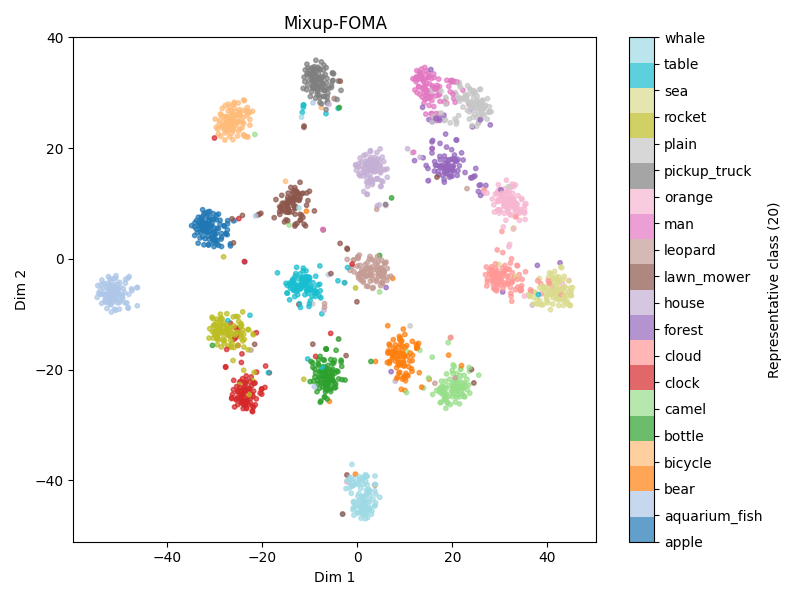
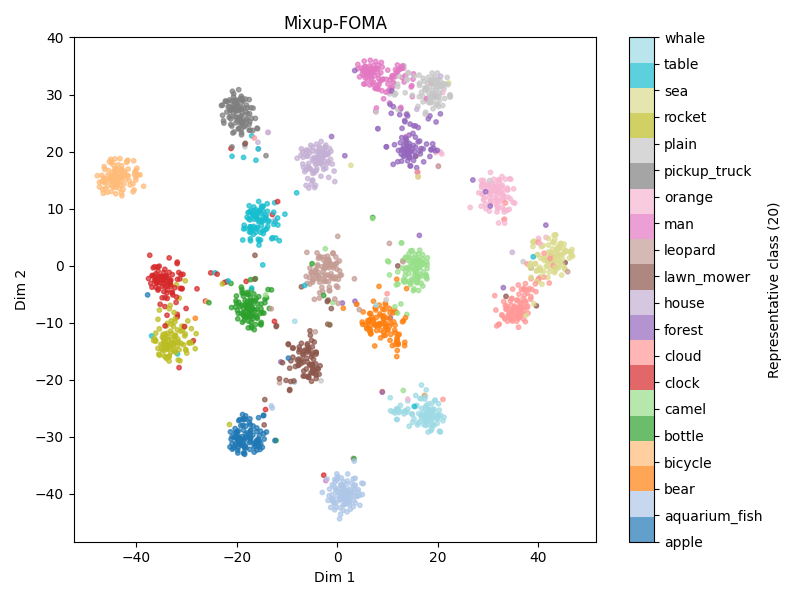
create t-SNE features

diff --git a/visualize_features.py b/visualize_features.py
@@ -1,3 +1,155 @@
+# import os
+# import torch
+# import torchvision
+# import random
+# import torchvision.transforms as transforms
+# import numpy as np
+# import matplotlib.pyplot as plt
+# import matplotlib.cm as cm
+# import argparse
+# from matplotlib.colors import ListedColormap
+# from torch.utils.data import DataLoader, Subset
+# from src.models.resnet import ResNet18
+# from sklearn.manifold import TSNE
+# from tqdm import tqdm
+# from src.models.wide_resnet import Wide_ResNet
+# from torchvision.datasets import STL10, CIFAR10, CIFAR100
+# from umap import UMAP
+
+# parser = argparse.ArgumentParser()
+# parser.add_argument("--i",          type=int, default=0)
+# parser.add_argument("--epochs",     type=int, default=250)
+# parser.add_argument("--data_type",  type=str, default="cifar100",  choices=["stl10", "cifar100", "cifar10"])
+# parser.add_argument("--model_type", type=str, default="wide_resnet_28_10", choices=["resnet18", "resnet101", "wide_resnet_28_10"])
+# parser.add_argument("--k_foma",     type=int, default=0)
+# parser.add_argument("--method",     type=str, default="tsne")
+# args = parser.parse_args() 
+
+# i          = args.i
+# epochs     = args.epochs
+# data_type  = args.data_type
+# model_type = args.model_type
+# k_foma     = args.k_foma
+# method     = args.method
+# device     = torch.device('cuda' if torch.cuda.is_available() else 'cpu')
+# os.makedirs(f"./result_features/{method}/{data_type}", exist_ok=True)
+
+# augmentations = [
+#     # "Default",
+#     # "Mixup", 
+#     # "Local-FOMA", 
+#     # "ES-Mixup",
+#     "Mixup-FOMA",
+#     # "Mixup-FOMA2",
+# ]
+
+# if data_type == "stl10":
+#     num_classes = 10
+#     batch_size  = 64
+# elif data_type == "cifar100":
+#     epochs      = 250
+#     num_classes = 100  # ← 学習済みモデルは100クラス想定のまま
+#     batch_size  = 128
+# elif data_type == "cifar10":
+#     epochs      = 250
+#     num_classes = 10
+#     batch_size  = 128
+
+# REPRESENTATIVE_20_FINE = [0, 1, 3, 8, 9, 15, 22, 23, 33, 37,
+#                           45, 46, 47, 49, 58, 59, 61, 71, 84, 95]
+# REPRESENTATIVE_20_NAMES = [
+#     "apple","aquarium_fish","bear","bicycle","bottle","camel","clock","cloud","forest","house",
+#     "lawn_mower","leopard","man","orange","pickup_truck","plain","rocket","sea","table","whale"
+# ]
+# FINE_TO_20IDX = {fine:i for i, fine in enumerate(REPRESENTATIVE_20_FINE)}
+
+# for augment in augmentations:
+#     features_list = []
+#     labels_list = []
+#     if k_foma == 0:
+#         model_save_path = f"./logs/{model_type}/{augment}/{data_type}_{epochs}_{i}.pth"
+#     else:    
+#         model_save_path = f"./logs/{model_type}/{augment}/{data_type}_{epochs}_{i}_{k_foma}.pth"
+    
+#     if model_type == "resnet18":
+#         model = ResNet18().to(device)
+#     elif model_type == "wide_resnet_28_10":
+#         model = Wide_ResNet(28, 10, 0.3, num_classes).to(device)
+    
+#     if data_type == "stl10":
+#         transform     = transforms.Compose([transforms.ToTensor(), transforms.Normalize(mean=[0.485, 0.456, 0.406], std=[0.229, 0.224, 0.225])])
+#         test_dataset  = STL10(root="./data", split="train", download=True, transform=transform)
+#     elif data_type == "cifar100":
+#         transform     = transforms.Compose([transforms.ToTensor(), transforms.Normalize(mean=[0.485, 0.456, 0.406], std=[0.229, 0.224, 0.225])])
+#         full_dataset  = CIFAR100(root="./data", train=False, transform=transform, download=True)
+
+#         indices = [idx for idx, fine in enumerate(full_dataset.targets) if fine in REPRESENTATIVE_20_FINE]
+#         test_dataset = Subset(full_dataset, indices)
+
+#     elif data_type == "cifar10":
+#         transform     = transforms.Compose([transforms.ToTensor(), transforms.Normalize(mean=[0.485, 0.456, 0.406], std=[0.229, 0.224, 0.225])])
+#         test_dataset  = CIFAR10(root="./data", train=False, transform=transform, download=True)
+
+#     test_loader  = DataLoader(dataset=test_dataset,  batch_size=batch_size, shuffle=False)
+
+#     checkpoint = torch.load(model_save_path, weights_only=True)
+#     if 'model_state_dict' in checkpoint:
+#         model.load_state_dict(checkpoint['model_state_dict'])
+#     else:
+#         model.load_state_dict(checkpoint)
+
+#     model.eval()
+#     with torch.no_grad():
+#         for images, labels in tqdm(test_loader, leave=False):
+#             images = images.to(device)
+#             features = model.extract_features(images)
+#             features_list.append(features.cpu())
+#             labels_list.append(labels)
+#     X = torch.cat(features_list, dim=0).numpy()
+#     y = torch.cat(labels_list, dim=0).numpy()
+
+#     if data_type == "cifar100":
+#         y = np.vectorize(FINE_TO_20IDX.get)(y)
+
+#     if method == "tsne":
+#         reducer = TSNE(n_components=2, random_state=42, perplexity=30)
+#     elif method == "umap":
+#         reducer = UMAP(
+#             n_components=2,
+#             n_neighbors=15,
+#             min_dist=0.1,
+#             metric='euclidean',
+#             random_state=42
+#         )
+#     X_2d = reducer.fit_transform(X)
+
+#     plt.figure(figsize=(8, 6))
+#     if augment == "Default":
+#         augment = "Baseline"
+#     if data_type == "cifar100":
+#         cmap = plt.get_cmap('tab20', 20)
+#         scatter = plt.scatter(X_2d[:, 0], X_2d[:, 1], c=y, cmap=cmap, s=10, alpha=0.7)
+#         cbar = plt.colorbar(scatter, ticks=np.arange(20))
+#         cbar.set_label("Representative class (20)")
+#         try:
+#             cbar.ax.set_yticklabels(REPRESENTATIVE_20_NAMES)
+#         except Exception:
+#             pass
+#         title = f"{augment}"
+#         save_suffix = "20classes"
+#     else:
+#         scatter = plt.scatter(X_2d[:, 0], X_2d[:, 1], c=y, cmap='tab10', s=6, alpha=1)
+#         plt.colorbar(scatter, label="Class label")
+#         title = f"t-SNE of ResNet Feature Representations ({augment})"
+#         save_suffix = ""
+
+#     plt.title(title)
+#     plt.xlabel("Dim 1")
+#     plt.ylabel("Dim 2")
+#     plt.tight_layout()
+#     plt.savefig(f"./result_features/{method}/{data_type}/_{model_type}_{augment}_{k_foma}_{save_suffix}.png")
+
+
 import os
 import torch
 import torchvision
@@ -35,78 +187,95 @@ device     = torch.device('cuda' if torch.cuda.is_available() else 'cpu')
 os.makedirs(f"./result_features/{method}/{data_type}", exist_ok=True)
 
 augmentations = [
-    # "FOMA-Mixup",
-    # "Default",
-    # "Mixup", 
+    "Default",
+    "Mixup", 
     # "Local-FOMA", 
-    # "Mixup-FOMA",
+    "ES-Mixup",
+    "Mixup-FOMA",
     "Mixup-FOMA2",
-    # "ES-Mixup",
 ]
 
+# --- 1. データセットの準備 (ループの外で一度だけ行う) ---
 if data_type == "stl10":
     num_classes = 10
     batch_size  = 64
+    transform   = transforms.Compose([transforms.ToTensor(), transforms.Normalize(mean=[0.485, 0.456, 0.406], std=[0.229, 0.224, 0.225])])
+    test_dataset = STL10(root="./data", split="train", download=True, transform=transform)
+
 elif data_type == "cifar100":
     epochs      = 250
-    num_classes = 100  # ← 学習済みモデルは100クラス想定のまま
+    num_classes = 100
     batch_size  = 128
+    transform   = transforms.Compose([transforms.ToTensor(), transforms.Normalize(mean=[0.485, 0.456, 0.406], std=[0.229, 0.224, 0.225])])
+    full_dataset = CIFAR100(root="./data", train=False, transform=transform, download=True)
+    
+    REPRESENTATIVE_20_FINE = [0, 1, 3, 8, 9, 15, 22, 23, 33, 37,
+                              45, 46, 47, 49, 58, 59, 61, 71, 84, 95]
+    REPRESENTATIVE_20_NAMES = [
+        "apple","aquarium_fish","bear","bicycle","bottle","camel","clock","cloud","forest","house",
+        "lawn_mower","leopard","man","orange","pickup_truck","plain","rocket","sea","table","whale"
+    ]
+    FINE_TO_20IDX = {fine:i for i, fine in enumerate(REPRESENTATIVE_20_FINE)}
+    
+    indices = [idx for idx, fine in enumerate(full_dataset.targets) if fine in REPRESENTATIVE_20_FINE]
+    test_dataset = Subset(full_dataset, indices)
+
 elif data_type == "cifar10":
     epochs      = 250
     num_classes = 10
     batch_size  = 128
+    transform   = transforms.Compose([transforms.ToTensor(), transforms.Normalize(mean=[0.485, 0.456, 0.406], std=[0.229, 0.224, 0.225])])
+    test_dataset = CIFAR10(root="./data", train=False, transform=transform, download=True)
 
-REPRESENTATIVE_20_FINE = [0, 1, 3, 8, 9, 15, 22, 23, 33, 37,
-                          45, 46, 47, 49, 58, 59, 61, 71, 84, 95]
-REPRESENTATIVE_20_NAMES = [
-    "apple","aquarium_fish","bear","bicycle","bottle","camel","clock","cloud","forest","house",
-    "lawn_mower","leopard","man","orange","pickup_truck","plain","rocket","sea","table","whale"
-]
-FINE_TO_20IDX = {fine:i for i, fine in enumerate(REPRESENTATIVE_20_FINE)}
+test_loader = DataLoader(dataset=test_dataset, batch_size=batch_size, shuffle=False)
+
+# --- 2. 全手法の特徴量抽出と次元圧縮を行う ---
+results = {} # 結果を保存する辞書
+
+print(f"Processing augmentations: {augmentations}")
 
 for augment in augmentations:
+    print(f"--- Processing {augment} ---")
     features_list = []
     labels_list = []
-    if k_foma == 0:
-        model_save_path = f"./logs/{model_type}/{augment}/{data_type}_{epochs}_{i}.pth"
-    else:    
-        model_save_path = f"./logs/{model_type}/{augment}/{data_type}_{epochs}_{i}_{k_foma}.pth"
     
+    if augment == "Mixup-FOMA" or augment == "Mixup-FOMA2":
+        model_save_path = f"./logs/{model_type}/{augment}/{data_type}_{epochs}_{i}_{k_foma}.pth"
+    else:    
+        model_save_path = f"./logs/{model_type}/{augment}/{data_type}_{epochs}_{i}.pth"
+    
+    # モデルの準備
     if model_type == "resnet18":
         model = ResNet18().to(device)
     elif model_type == "wide_resnet_28_10":
         model = Wide_ResNet(28, 10, 0.3, num_classes).to(device)
     
-    if data_type == "stl10":
-        transform     = transforms.Compose([transforms.ToTensor(), transforms.Normalize(mean=[0.485, 0.456, 0.406], std=[0.229, 0.224, 0.225])])
-        test_dataset  = STL10(root="./data", split="train", download=True, transform=transform)
-    elif data_type == "cifar100":
-        transform     = transforms.Compose([transforms.ToTensor(), transforms.Normalize(mean=[0.485, 0.456, 0.406], std=[0.229, 0.224, 0.225])])
-        full_dataset  = CIFAR100(root="./data", train=False, transform=transform, download=True)
+    # 重みのロード
+    try:
+        checkpoint = torch.load(model_save_path, weights_only=True)
+        if 'model_state_dict' in checkpoint:
+            model.load_state_dict(checkpoint['model_state_dict'])
+        else:
+            model.load_state_dict(checkpoint)
+    except FileNotFoundError:
+        print(f"Warning: Model file not found for {augment} at {model_save_path}. Skipping.")
+        continue
 
-        indices = [idx for idx, fine in enumerate(full_dataset.targets) if fine in REPRESENTATIVE_20_FINE]
-        test_dataset = Subset(full_dataset, indices)
-
-    elif data_type == "cifar10":
-        transform     = transforms.Compose([transforms.ToTensor(), transforms.Normalize(mean=[0.485, 0.456, 0.406], std=[0.229, 0.224, 0.225])])
-        test_dataset  = CIFAR10(root="./data", train=False, transform=transform, download=True)
-
-    test_loader  = DataLoader(dataset=test_dataset,  batch_size=batch_size, shuffle=False)
-
-    model.load_state_dict(torch.load(model_save_path, weights_only=True))
     model.eval()
     with torch.no_grad():
-        for images, labels in tqdm(test_loader, leave=False):
+        for images, labels in tqdm(test_loader, leave=False, desc=f"Extracting {augment}"):
             images = images.to(device)
             features = model.extract_features(images)
             features_list.append(features.cpu())
             labels_list.append(labels)
+    
     X = torch.cat(features_list, dim=0).numpy()
     y = torch.cat(labels_list, dim=0).numpy()
 
     if data_type == "cifar100":
         y = np.vectorize(FINE_TO_20IDX.get)(y)
 
+    # 次元圧縮 (t-SNE / UMAP)
     if method == "tsne":
         reducer = TSNE(n_components=2, random_state=42, perplexity=30)
     elif method == "umap":
@@ -117,11 +286,45 @@ for augment in augmentations:
             metric='euclidean',
             random_state=42
         )
+    
+    print(f"Running {method} for {augment}...")
     X_2d = reducer.fit_transform(X)
+    
+    # 結果を辞書に保存
+    results[augment] = {
+        "X_2d": X_2d,
+        "y": y
+    }
+
+if not results:
+    print("No results to plot.")
+    exit()
+
+# --- 3. 全手法を通じた軸の最大・最小 (目盛り) を計算 ---
+all_x = np.concatenate([res["X_2d"][:, 0] for res in results.values()])
+all_y = np.concatenate([res["X_2d"][:, 1] for res in results.values()])
+
+x_min, x_max = all_x.min(), all_x.max()
+y_min, y_max = all_y.min(), all_y.max()
+
+# 余白を少し持たせる (5%)
+margin_x = (x_max - x_min) * 0.05
+margin_y = (y_max - y_min) * 0.05
+xlim = (x_min - margin_x, x_max + margin_x)
+ylim = (y_min - margin_y, y_max + margin_y)
+
+print(f"Global limits determined: X={xlim}, Y={ylim}")
+
+# --- 4. 固定された目盛りでプロット ---
+for augment, data in results.items():
+    X_2d = data["X_2d"]
+    y = data["y"]
 
     plt.figure(figsize=(8, 6))
-    if augment == "Default":
-        augment = "Baseline"
+    
+    # 表示タイトル等の調整
+    plot_title_augment = "Baseline" if augment == "Default" else augment
+    
     if data_type == "cifar100":
         cmap = plt.get_cmap('tab20', 20)
         scatter = plt.scatter(X_2d[:, 0], X_2d[:, 1], c=y, cmap=cmap, s=10, alpha=0.7)
@@ -131,16 +334,24 @@ for augment in augmentations:
             cbar.ax.set_yticklabels(REPRESENTATIVE_20_NAMES)
         except Exception:
             pass
-        title = f"{augment}"
+        title = f"{plot_title_augment}"
         save_suffix = "20classes"
     else:
         scatter = plt.scatter(X_2d[:, 0], X_2d[:, 1], c=y, cmap='tab10', s=6, alpha=1)
         plt.colorbar(scatter, label="Class label")
-        title = f"t-SNE of ResNet Feature Representations ({augment})"
+        title = f"t-SNE of Feature Representations ({plot_title_augment})"
         save_suffix = ""
+
+    # ここで目盛り (範囲) を固定
+    plt.xlim(xlim)
+    plt.ylim(ylim)
 
     plt.title(title)
     plt.xlabel("Dim 1")
     plt.ylabel("Dim 2")
     plt.tight_layout()
-    plt.savefig(f"./result_features/{method}/{data_type}/{augment}_{k_foma}_{save_suffix}.png")
+    
+    save_path = f"./result_features/{method}/{data_type}/_{model_type}_{augment}_{k_foma}_{save_suffix}_fixed_scale.png"
+    plt.savefig(save_path)
+    print(f"Saved plot to {save_path}")
+    plt.close() # メモリ解放
